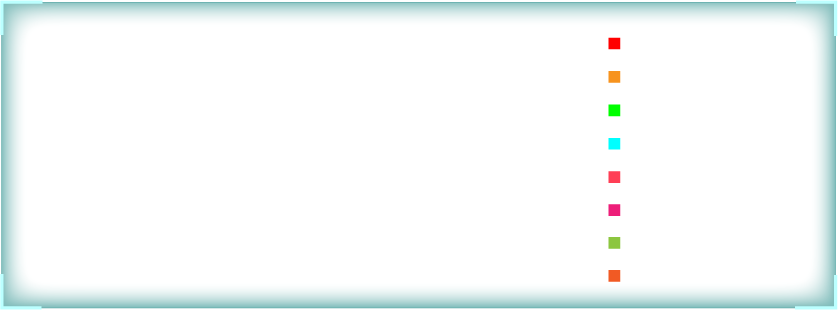
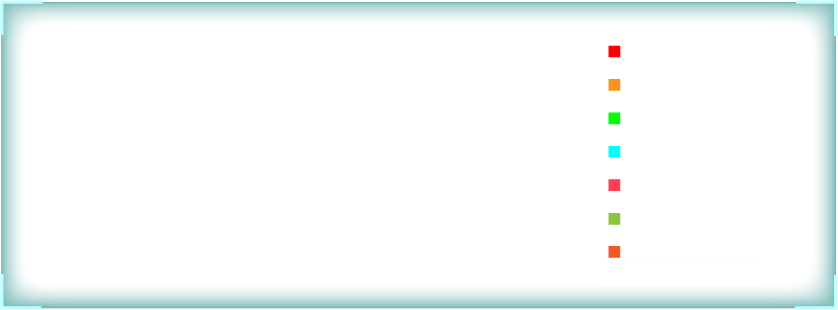
去掉国网数据

diff --git a/XinTongYuan_SatelliteCarBigScreen/Assets/Scripts/LitVCR/LitVCR.cs b/XinTongYuan_SatelliteCarBigScreen/Assets/Scripts/LitVCR/LitVCR.cs
@@ -525,8 +525,9 @@ public class LitVCR : MonoBehaviour
         _loadingPlayer = _mediaPlayerB;
 
         //Settings.ini.Path.MediaPath = Settings.ini.Path.MediaPath;
-        if (!Directory.Exists(Settings.ini.Path.MediaPath))
+        if (!Directory.Exists(Settings.ini.Path.MediaPath)) //如果以前配置的路径不存在 则重新指定为 streamingAssetsPath\媒体文件 默认路径
         {
+            Settings.ini.Path.MediaPath = Path.Combine(Application.streamingAssetsPath, "媒体文件");
             Directory.CreateDirectory(Settings.ini.Path.MediaPath);
         }
 

diff --git a/XinTongYuan_SatelliteCarBigScreen/Assets/Demo/MouseRoteReceiver.cs b/XinTongYuan_SatelliteCarBigScreen/Assets/Demo/MouseRoteReceiver.cs
@@ -841,6 +841,7 @@ public class MouseRoteReceiver : MonoBehaviour
         litVCR1.OpenVideoByFileName("待机循环动画.mp4");
         litVCR2.OpenVideoByFileName("地屏循环地球.mp4");
         satelliteOrbitRenderer.SetDisplayMode(DisplayMode.None);
+        satletExelDataReader.Hide();
     }
 
     private void ShowCarMode()
